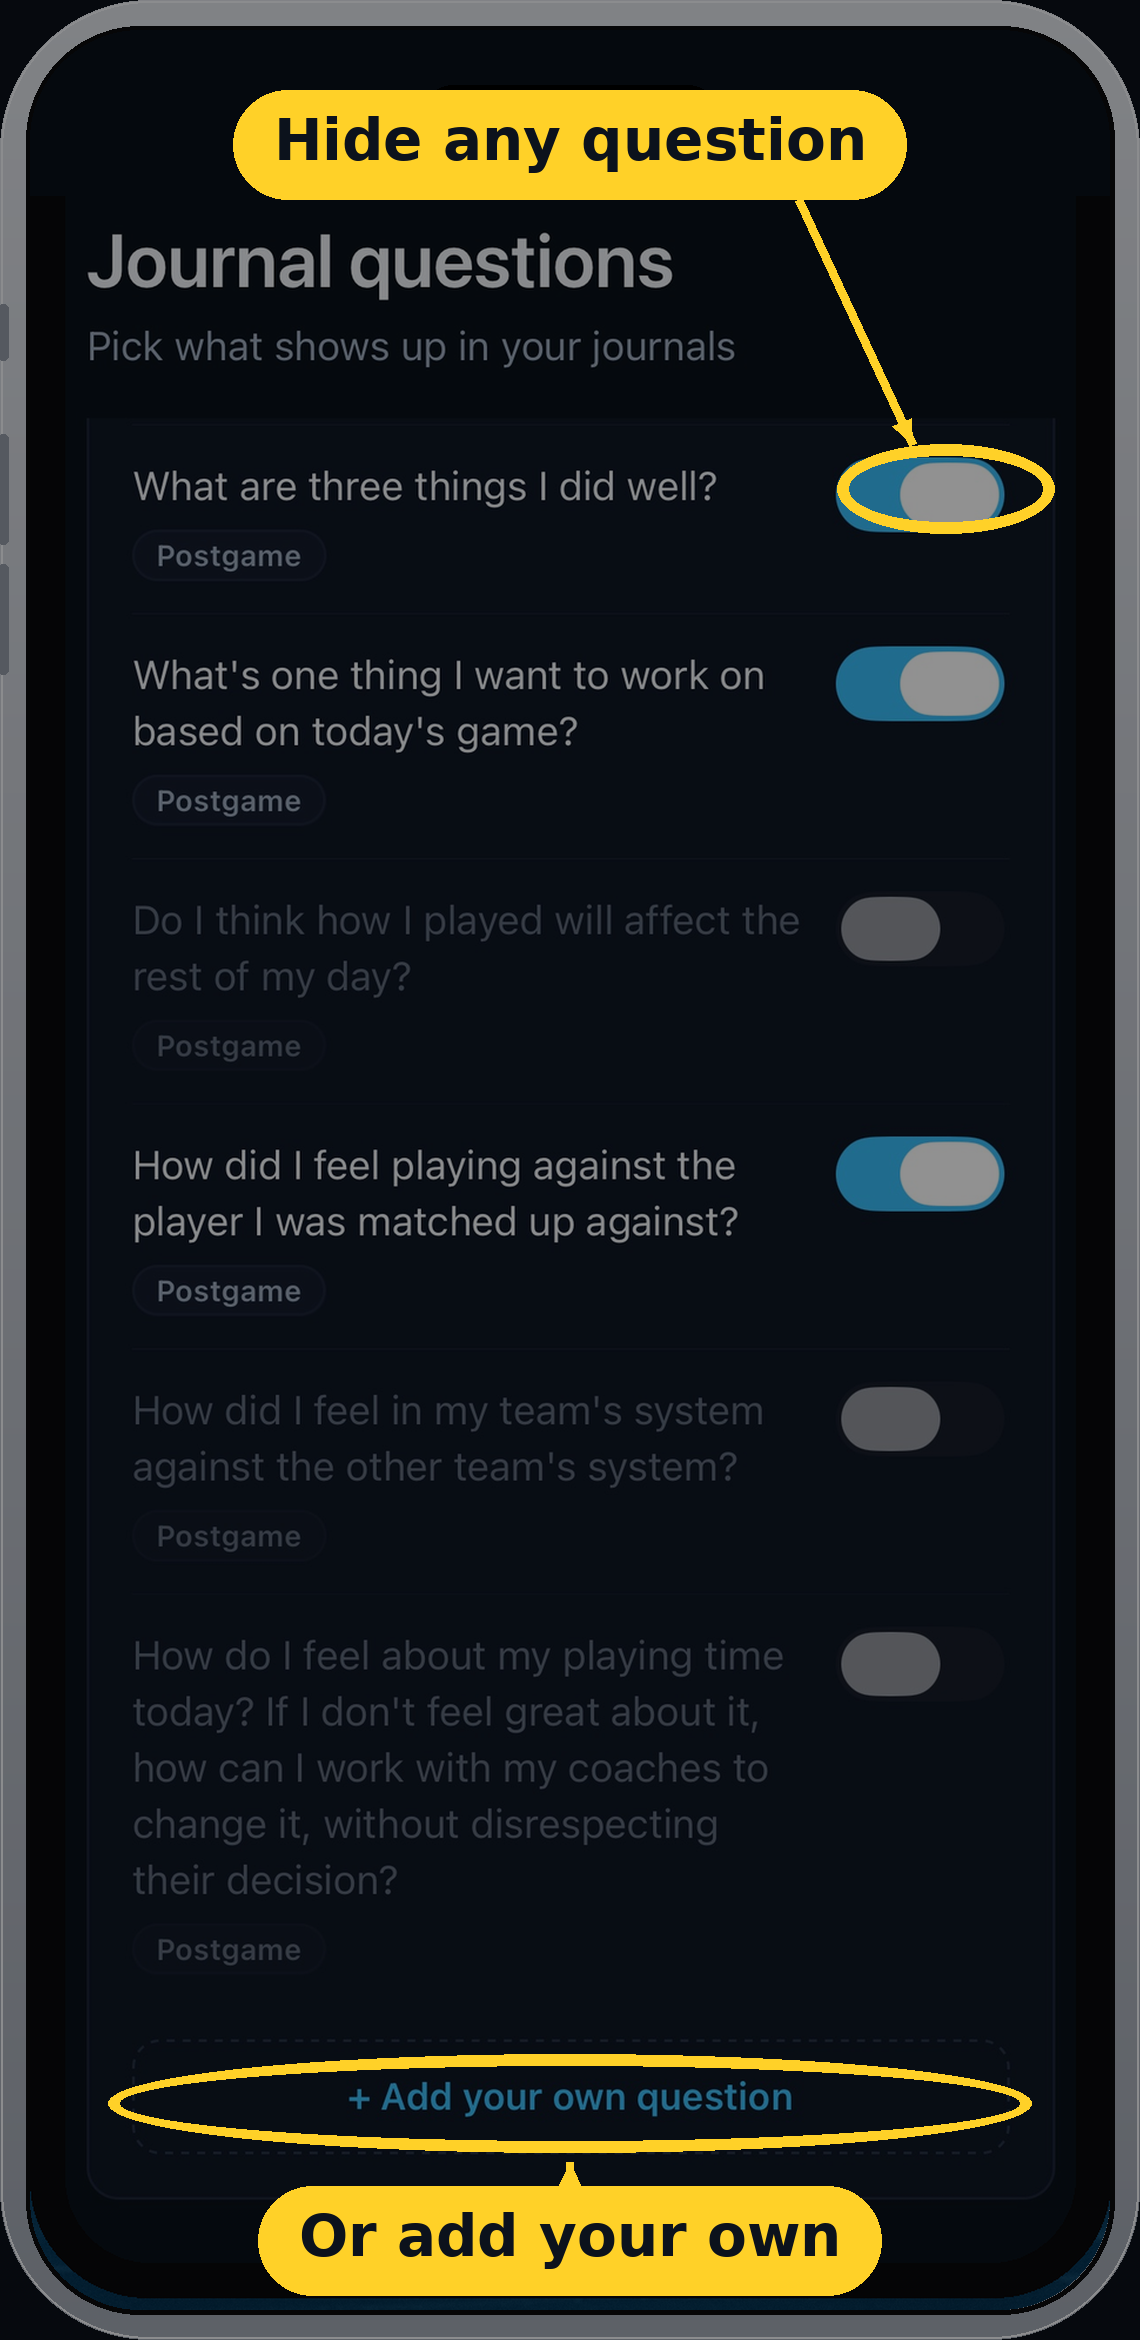
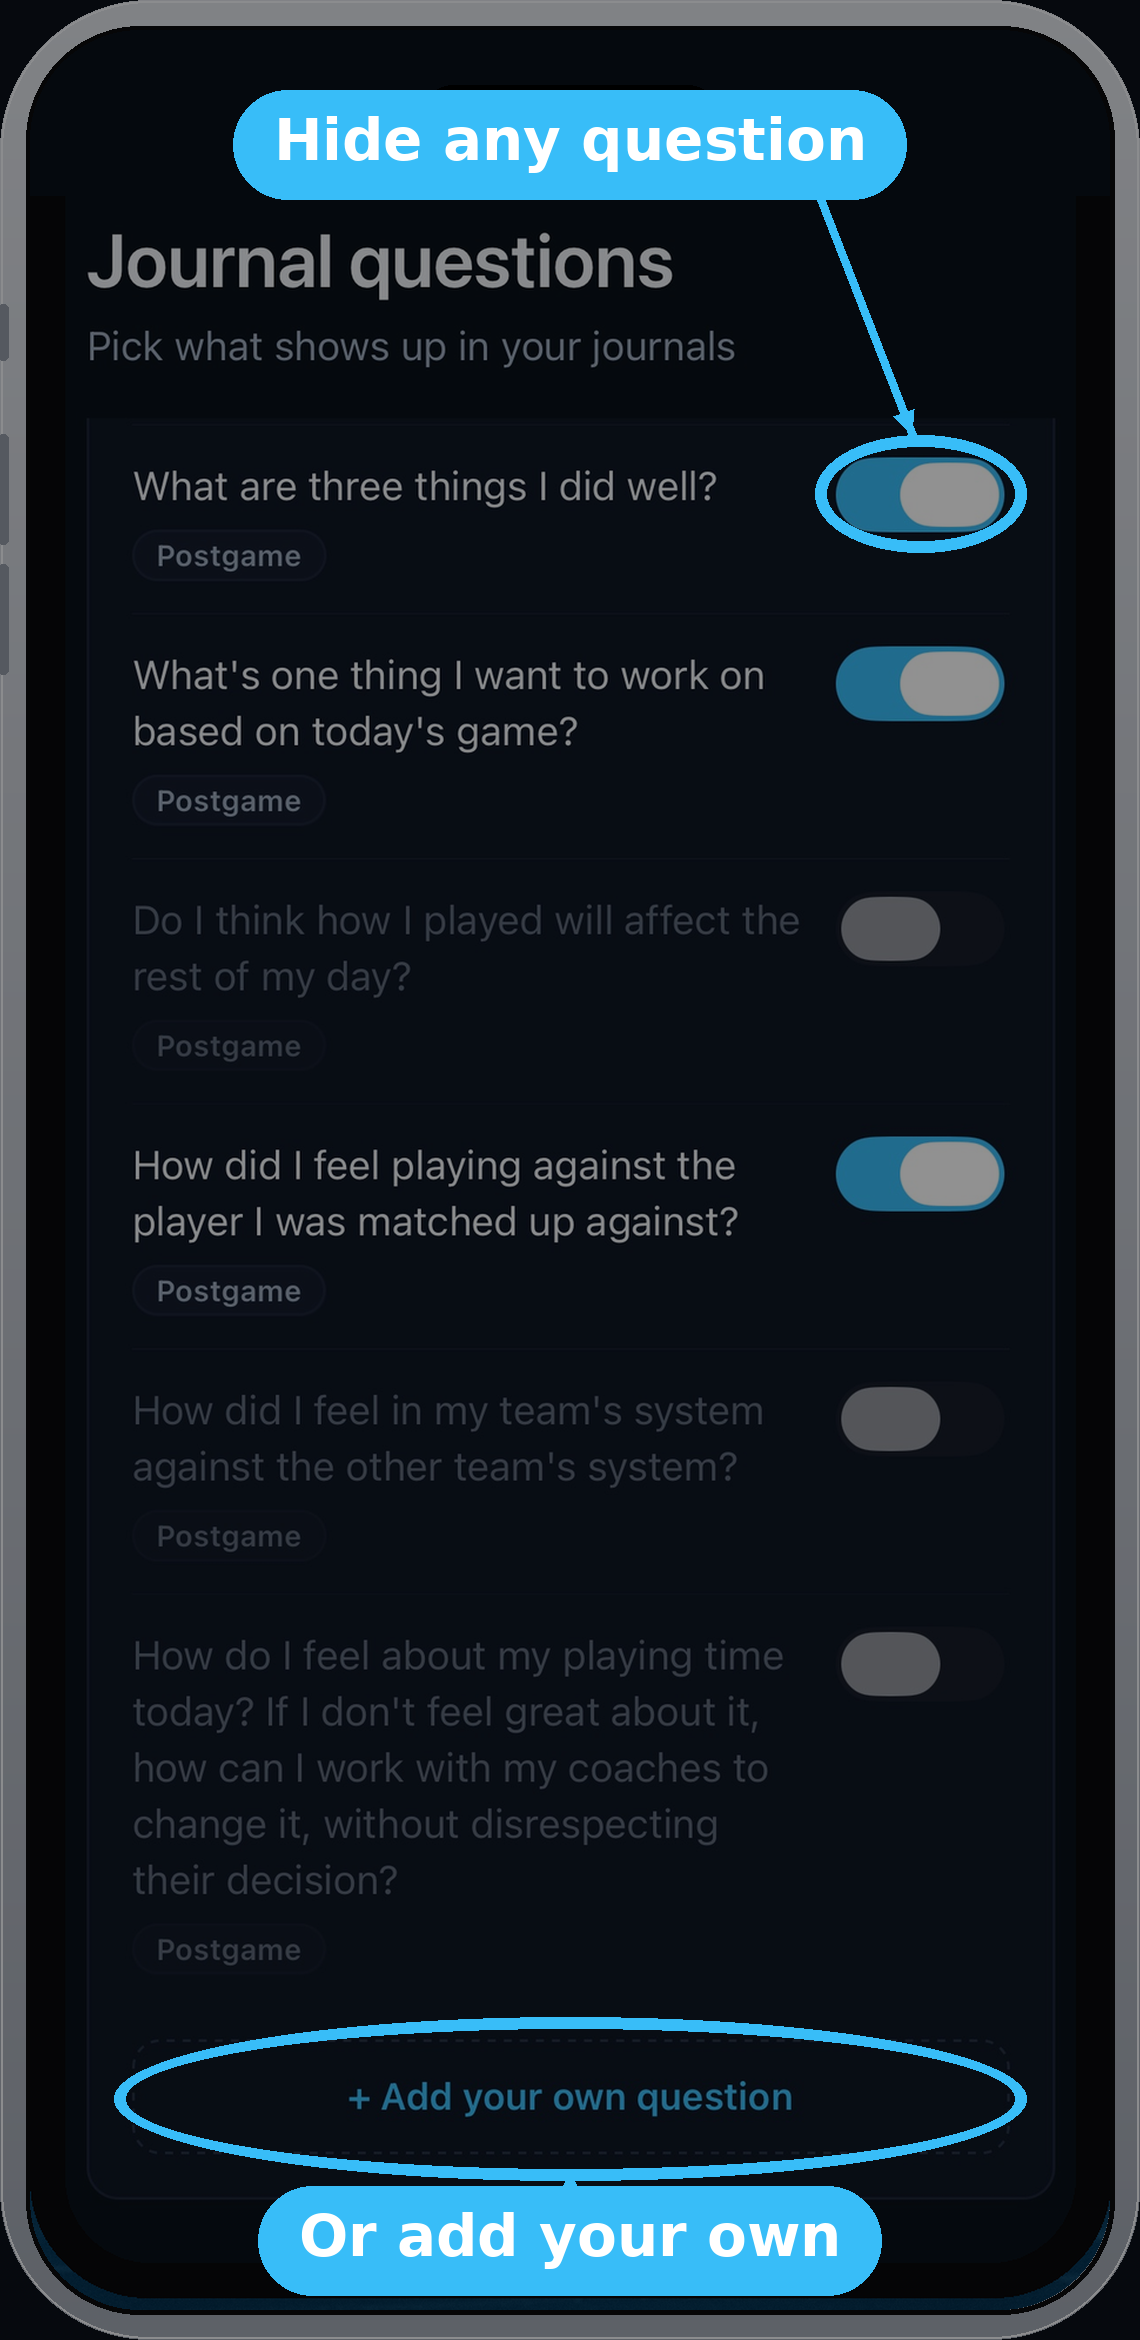
Tutorial v2: blue annotations, fixed circles, new activity-type slide
- Annotation color yellow -> app blue (#38bdf8), white label text
- Re-measured every annotation circle against the source screenshots
  so each ring tightly fits its target element
- New tutorial-activity.png slide: New Entry 'Choose a session type'
- FirstRunTutorial: 6 -> 7 pages, 'Pick your activity' slide after
  'Start a journal'

Changed region(s): [[0.0921, 0.8423, 0.9211, 0.9983], [0.1842, 0.0312, 0.9211, 0.2496]]

diff --git a/src/components/FirstRunTutorial.tsx b/src/components/FirstRunTutorial.tsx
@@ -16,7 +16,7 @@ import { SafeAreaView } from "react-native-safe-area-context";
 import { AppButton } from "./AppChrome";
 import { colors, font, radius, space, type as typeStyles } from "../theme";
 
-const TUTORIAL_PAGES = 6;
+const TUTORIAL_PAGES = 7;
 
 export function FirstRunTutorial({
   onComplete,
@@ -75,6 +75,13 @@ export function FirstRunTutorial({
           imageLabel="Home screen with the Start a journal entry button circled"
           title="Start a journal"
           body="One tap opens a new entry — log a game, training session, or reflection."
+        />
+        <TutorialPage
+          width={width}
+          image={require("../../assets/images/tutorial-activity.png")}
+          imageLabel="New entry screen with the activity type cards circled"
+          title="Pick your activity"
+          body="Choose what you're logging — game, training, rehab, lift, and more."
         />
         <TutorialPage
           width={width}
